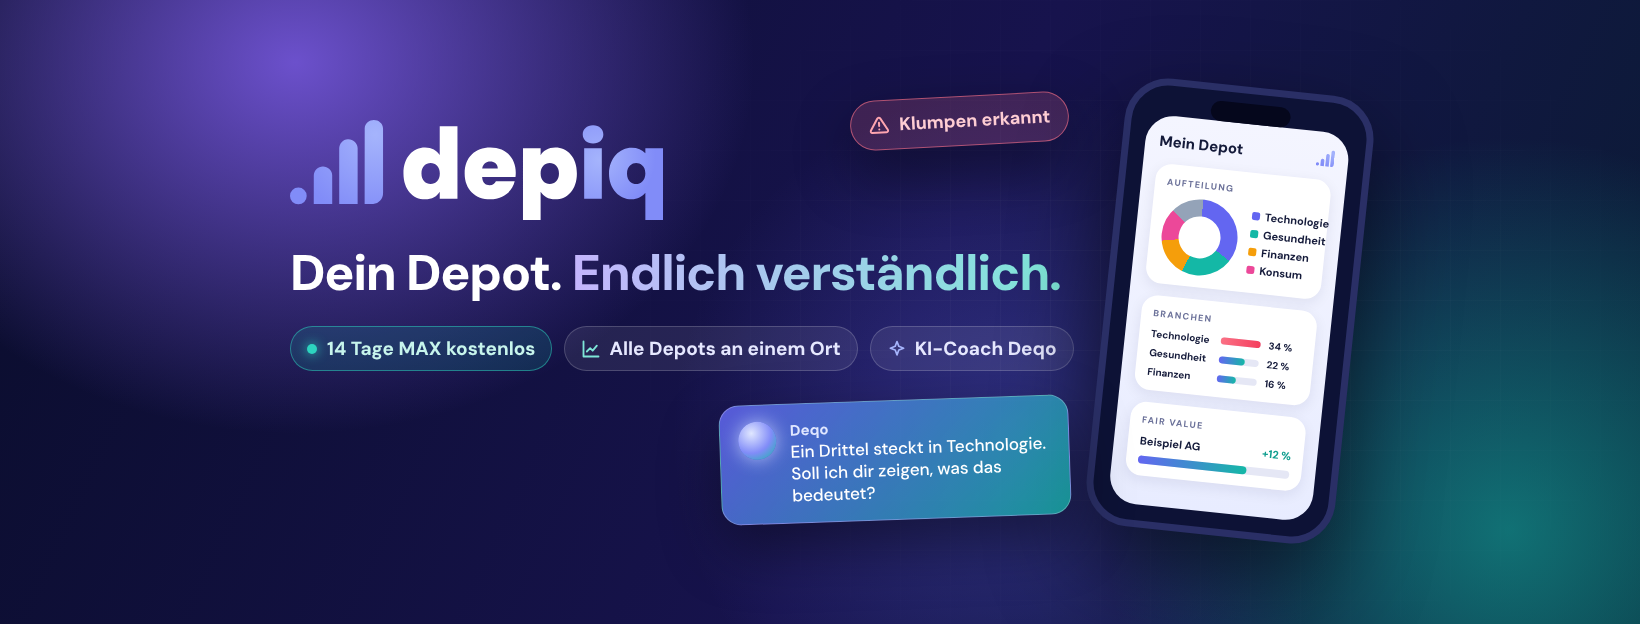
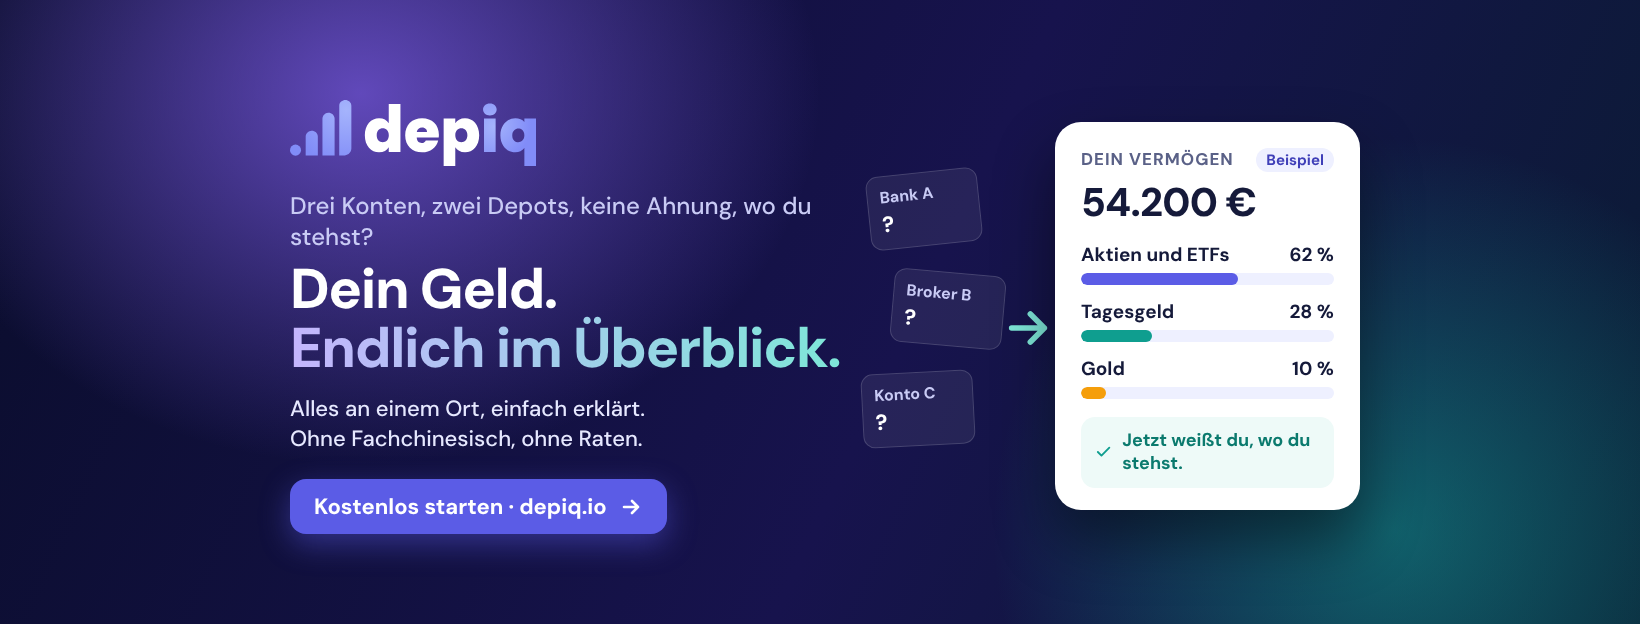
Facebook-Titelbild neu: Schmerz und Lösung, ohne Fachbegriffe
Claude-Session: https://claude.ai/code/session_01TCMRwfkoPUXt6cdHJjM9Lg

diff --git a/vorlage/fb-titelbild.html b/vorlage/fb-titelbild.html
@@ -1,73 +1,60 @@
 <!doctype html><html lang="de"><head><meta charset="utf-8">
-<!-- Facebook-Titelbild 1640 × 624, abgeleitet vom X-Titelbild. Mobil zeigt Facebook nur die Mitte (ca. 265–1375 px), deshalb alles Wichtige dort. Basis: X-Titelbild 1500 × 500 (Ausbau von Variante A). Profilbild liegt unten links ab ca. 330 px Höhe, 60–460 px breit:
-     Text steht deshalb oben links darüber, das Smartphone rechts, Hinweiskarten in der Mitte. -->
+<!-- Facebook-Titelbild 1640 × 624 (Fassung 02.11.2026). Mobil zeigt Facebook nur die Mitte (ca. 265–1375 px): alles Wichtige dort.
+     Inhalt nach Richtlinie: Schmerz → Lösung, keine Fachbegriffe, keine Funktionsliste. -->
 <style>
 @font-face{font-family:'DM Sans';font-weight:500;src:url(schrift/dm-sans-500.woff2)}
 @font-face{font-family:'DM Sans';font-weight:700;src:url(schrift/dm-sans-700.woff2)}
 @font-face{font-family:'DM Sans';font-weight:800;src:url(schrift/dm-sans-800.woff2)}
-@font-face{font-family:'JB';font-weight:700;src:url(schrift/jetbrains-mono-700.woff2)}
 *{box-sizing:border-box;margin:0}
 html,body{width:1640px;height:624px;overflow:hidden}
 body{font-family:'DM Sans',sans-serif;color:#fff;position:relative;background:#0a0d2c}
 em{font-style:normal;background:linear-gradient(90deg,#c4b5fd,#7ee7d8);-webkit-background-clip:text;color:transparent}
 .bg{position:absolute;inset:0;background:
- radial-gradient(ellipse 40% 85% at 18% 10%, rgba(124,92,230,.85), transparent 70%),
- radial-gradient(ellipse 30% 80% at 62% 70%, rgba(99,102,241,.35), transparent 70%),
- radial-gradient(ellipse 35% 90% at 92% 85%, rgba(20,184,166,.55), transparent 70%),
+ radial-gradient(ellipse 40% 85% at 22% 15%, rgba(124,92,230,.75), transparent 70%),
+ radial-gradient(ellipse 35% 90% at 85% 85%, rgba(20,184,166,.45), transparent 70%),
  linear-gradient(115deg,#0a0d2c,#17134d 55%,#0a1c33)}
-.raster{position:absolute;inset:0;background-image:linear-gradient(rgba(255,255,255,.035) 1px,transparent 1px),linear-gradient(90deg,rgba(255,255,255,.035) 1px,transparent 1px);background-size:50px 50px;mask-image:radial-gradient(ellipse 50% 90% at 70% 50%,#000,transparent 75%)}
-.links{position:absolute;left:90px;top:80px}
-.logo{height:132px;display:block}
-h1{font-size:88px;line-height:1.02;font-weight:800;letter-spacing:-.03em;margin:22px 0 28px;white-space:nowrap}
-.chips{display:flex;gap:12px}
-.chip{display:inline-flex;align-items:center;gap:8px;font-size:22px;font-weight:700;padding:9px 16px;border-radius:999px;background:rgba(255,255,255,.08);border:1.5px solid rgba(255,255,255,.18);color:#e6e8ff}
-.chip svg{width:20px;height:20px}
-.live{display:inline-flex;align-items:center;gap:10px;font-size:22px;font-weight:700;color:#c7f5ec;padding:9px 16px;border-radius:999px;background:rgba(20,184,166,.16);border:1.5px solid rgba(45,212,191,.5)}
-.live i{width:10px;height:10px;border-radius:50%;background:#2dd4bf;box-shadow:0 0 12px #2dd4bf}
-.handy{position:absolute;left:1080px;top:34px;width:250px;height:450px;border-radius:44px;background:#0d1236;border:7px solid #2a2f66;box-shadow:0 40px 90px rgba(0,0,0,.6);padding:30px 16px 16px;transform:rotate(6deg);zoom:1.18}
-.notch{position:absolute;top:10px;left:50%;transform:translateX(-50%);width:80px;height:20px;border-radius:20px;background:#05071c}
-.screen{height:100%;border-radius:28px;background:linear-gradient(180deg,#f4f5ff,#e8ecff);color:#141a3a;padding:16px 14px;display:flex;flex-direction:column;gap:12px}
-.screen .t{font-size:15px;font-weight:800;display:flex;justify-content:space-between;align-items:center}
-.screen .t img{height:18px}
-.kart{background:#fff;border-radius:16px;padding:12px;box-shadow:0 4px 14px rgba(20,26,58,.08)}
-.kart h4{font-size:9px;letter-spacing:.14em;color:#6b7199;margin-bottom:8px}
-.donutz{display:flex;gap:12px;align-items:center}
-.donut{flex:none;width:76px;height:76px;border-radius:50%;background:conic-gradient(#6366f1 0 34%,#14b8a6 34% 56%,#f59e0b 56% 72%,#ec4899 72% 86%,#94a3b8 86% 100%);position:relative}
-.donut:after{content:"";position:absolute;inset:17px;border-radius:50%;background:#fff}
-.leg{white-space:nowrap;font-size:11px;font-weight:700;display:flex;flex-direction:column;gap:4px}
-.leg span:before{content:"";display:inline-block;width:8px;height:8px;border-radius:2px;margin-right:5px;background:var(--c)}
-.fv div{font-size:11px;font-weight:700;display:flex;justify-content:space-between}
-.fv .bar{height:8px;border-radius:9px;background:#e5e7f5;margin-top:8px}.fv .bar b{display:block;width:72%;height:100%;border-radius:9px;background:linear-gradient(90deg,#6366f1,#14b8a6)}
-.zeile{display:grid;grid-template-columns:62px 1fr 34px;gap:8px;align-items:center;font-size:10px;font-weight:700;margin-top:6px}
-.zeile .s{height:7px;border-radius:9px;background:#e5e7f5}.zeile .s b{display:block;height:100%;border-radius:9px;background:linear-gradient(90deg,#6366f1,#14b8a6)}
-.zeile .s b.rot{background:linear-gradient(90deg,#fb7185,#f43f5e)}
-.schwebe{position:absolute;z-index:5;border-radius:20px;box-shadow:0 24px 60px rgba(0,0,0,.45)}
-.warn{left:960px;top:70px;padding:12px 18px;font-size:18px;font-weight:700;display:flex;gap:10px;align-items:center;background:rgba(251,113,133,.18);border:1.5px solid rgba(251,113,133,.6);color:#fecdd3;border-radius:999px;transform:rotate(-3deg)}
-.deqo{left:900px;top:395px;width:350px;padding:16px 18px;display:flex;gap:14px;align-items:flex-start;background:linear-gradient(135deg,rgba(99,102,241,.85),rgba(20,184,166,.75));border:1.5px solid rgba(255,255,255,.25);transform:rotate(-2deg)}
-.orb{flex:none;width:38px;height:38px;border-radius:50%;background:radial-gradient(circle at 35% 30%,#e0e7ff,#818cf8 55%,#14b8a6);box-shadow:0 0 18px rgba(199,210,254,.8)}
-.deqo b{display:block;font-size:15px;color:#e0e7ff}
-.deqo span{font-size:17px;font-weight:500;line-height:1.3}
-</style></head><body>
-<div class="bg"></div><div class="raster"></div>
-<svg width="0" height="0" style="position:absolute"><defs>
- <symbol id="i-depot" viewBox="0 0 24 24"><path d="M3 3v18h18M7 15l4-4 3 3 5-6" fill="none" stroke="#7ee7d8" stroke-width="2.2" stroke-linecap="round" stroke-linejoin="round"/></symbol>
- <symbol id="i-deqo" viewBox="0 0 24 24"><path d="M12 3l2.2 5.8L20 11l-5.8 2.2L12 19l-2.2-5.8L4 11l5.8-2.2z" fill="none" stroke="#a5b4fc" stroke-width="2" stroke-linejoin="round"/></symbol>
-</defs></svg>
+.links{position:absolute;left:290px;top:100px;width:560px}
+.logo{height:66px;display:block}
+.schmerz{margin-top:24px;font-size:24px;font-weight:500;color:#c9cbf5}
+h1{font-size:56px;line-height:1.05;font-weight:800;letter-spacing:-.025em;margin-top:8px}
+.unter{margin-top:16px;font-size:22px;line-height:1.4;color:#e6e8ff}
+.knopf{margin-top:24px;display:inline-flex;align-items:center;gap:12px;font-size:22px;font-weight:700;padding:13px 24px;border-radius:16px;background:#5b5ce6;box-shadow:0 10px 30px rgba(91,92,230,.45)}
+/* rechts: vorher → nachher */
+.vorher{position:absolute;left:975px;top:120px;width:150px}
+.zettel{position:absolute;width:112px;padding:10px 12px;border-radius:12px;background:rgba(255,255,255,.07);border:1.5px solid rgba(255,255,255,.15);font-size:16px;font-weight:700;color:#c9cbf5}
+.zettel b{display:block;font-size:22px;color:#fff;margin-top:2px}
+.frage{position:absolute;left:1005px;top:405px;font-size:76px;font-weight:800;color:rgba(255,255,255,.22)}
+.pfeil{position:absolute;left:1000px;top:300px}
+.karte{position:absolute;left:1055px;top:122px;width:305px;padding:26px 26px 22px;border-radius:26px;background:#fff;color:#151a3a;box-shadow:0 30px 60px rgba(0,0,0,.45)}
+.karte .k{font-size:17px;font-weight:700;color:#5a6187;letter-spacing:.06em;text-transform:uppercase}
+.karte .z{font-size:40px;font-weight:800;letter-spacing:-.02em;margin-top:4px}
+.zeile{margin-top:14px}
+.zeile .t{display:flex;justify-content:space-between;font-size:19px;font-weight:700}
+.balken{height:12px;border-radius:999px;background:#eef0ff;margin-top:6px;overflow:hidden}
+.balken i{display:block;height:100%;border-radius:999px}
+.ruhe{display:flex;align-items:center;gap:10px;margin-top:18px;padding:12px 14px;border-radius:14px;background:#eefaf8;color:#0b7a6e;font-size:18px;font-weight:700;line-height:1.3}
+</style></head><body><div class="bg"></div>
+
 <div class="links">
- <img class="logo" src="logo-dark.svg" alt="">
- <h1>Dein Depot.<br><em>Endlich verständlich.</em></h1>
- <div class="chips"><span class="live"><i></i>14 Tage MAX kostenlos</span><span class="chip"><svg><use href="#i-depot"/></svg>Alle Depots an einem Ort</span></div>
+ <img class="logo" src="logo-dark.svg" alt="depiq">
+ <div class="schmerz">Drei Konten, zwei Depots, keine Ahnung, wo du stehst?</div>
+ <h1>Dein Geld.<br><em>Endlich im Überblick.</em></h1>
+ <div class="unter">Alles an einem Ort, einfach erklärt.<br>Ohne Fachchinesisch, ohne Raten.</div>
+ <div class="knopf">Kostenlos starten · depiq.io
+  <svg width="24" height="24" viewBox="0 0 24 24" fill="none" stroke="#fff" stroke-width="2.6" stroke-linecap="round" stroke-linejoin="round"><path d="M5 12h14M13 6l6 6-6 6"/></svg></div>
 </div>
-<div class="schwebe warn"><svg width="20" height="20" viewBox="0 0 24 24" fill="none" stroke="#fda4af" stroke-width="2.4" stroke-linecap="round" stroke-linejoin="round"><path d="M12 9v4M12 17h.01M10.3 3.9 1.8 18a2 2 0 0 0 1.7 3h17a2 2 0 0 0 1.7-3L13.7 3.9a2 2 0 0 0-3.4 0z"/></svg>Klumpen erkannt</div>
-<div class="schwebe deqo"><div class="orb"></div><div><b>Deqo</b><span>Ein Drittel steckt in Technologie. Soll ich dir zeigen, was das bedeutet?</span></div></div>
-<div class="handy"><div class="notch"></div><div class="screen">
- <div class="t">Mein Depot<img src="icon-dunkel.svg" alt=""></div>
- <div class="kart"><h4>AUFTEILUNG</h4><div class="donutz"><div class="donut"></div><div class="leg"><span style="--c:#6366f1">Technologie</span><span style="--c:#14b8a6">Gesundheit</span><span style="--c:#f59e0b">Finanzen</span><span style="--c:#ec4899">Konsum</span></div></div></div>
- <div class="kart"><h4>BRANCHEN</h4>
-  <div class="zeile"><span>Technologie</span><div class="s"><b class="rot" style="width:100%"></b></div><span>34 %</span></div>
-  <div class="zeile"><span>Gesundheit</span><div class="s"><b style="width:64%"></b></div><span>22 %</span></div>
-  <div class="zeile"><span>Finanzen</span><div class="s"><b style="width:47%"></b></div><span>16 %</span></div>
- </div>
- <div class="kart fv"><h4>FAIR VALUE</h4><div><span>Beispiel AG</span><span style="color:#0f9e8f">+12 %</span></div><div class="bar"><b></b></div></div>
-</div></div>
+
+<div class="zettel" style="left:868px;top:172px;transform:rotate(-6deg)">Bank A<b>?</b></div>
+<div class="zettel" style="left:892px;top:272px;transform:rotate(5deg)">Broker B<b>?</b></div>
+<div class="zettel" style="left:862px;top:372px;transform:rotate(-3deg)">Konto C<b>?</b></div>
+<svg class="pfeil" width="56" height="56" viewBox="0 0 24 24" fill="none" stroke="#7ee7d8" stroke-width="2.4" stroke-linecap="round" stroke-linejoin="round"><path d="M5 12h14M13 6l6 6-6 6"/></svg>
+
+<div class="karte">
+ <div class="k" style="display:flex;justify-content:space-between">Dein Vermögen<span style="letter-spacing:0;text-transform:none;font-size:15px;background:#eef0ff;color:#3f3fb8;padding:2px 10px;border-radius:999px">Beispiel</span></div>
+ <div class="z">54.200 €</div>
+ <div class="zeile"><div class="t"><span>Aktien und ETFs</span><span>62 %</span></div><div class="balken"><i style="width:62%;background:#5b5ce6"></i></div></div>
+ <div class="zeile"><div class="t"><span>Tagesgeld</span><span>28 %</span></div><div class="balken"><i style="width:28%;background:#0f9e8f"></i></div></div>
+ <div class="zeile"><div class="t"><span>Gold</span><span>10 %</span></div><div class="balken"><i style="width:10%;background:#f59e0b"></i></div></div>
+ <div class="ruhe"><svg width="22" height="22" viewBox="0 0 24 24" fill="none" stroke="#0f9e8f" stroke-width="2.6" stroke-linecap="round" stroke-linejoin="round"><path d="M20 6L9 17l-5-5"/></svg>Jetzt weißt du, wo du stehst.</div>
+</div>
 </body></html>

diff --git a/vorlage/fb-titelbild-alt-2026-11-01.html b/vorlage/fb-titelbild-alt-2026-11-01.html
@@ -1,0 +1,73 @@
+<!doctype html><html lang="de"><head><meta charset="utf-8">
+<!-- Facebook-Titelbild 1640 × 624, abgeleitet vom X-Titelbild. Mobil zeigt Facebook nur die Mitte (ca. 265–1375 px), deshalb alles Wichtige dort. Basis: X-Titelbild 1500 × 500 (Ausbau von Variante A). Profilbild liegt unten links ab ca. 330 px Höhe, 60–460 px breit:
+     Text steht deshalb oben links darüber, das Smartphone rechts, Hinweiskarten in der Mitte. -->
+<style>
+@font-face{font-family:'DM Sans';font-weight:500;src:url(schrift/dm-sans-500.woff2)}
+@font-face{font-family:'DM Sans';font-weight:700;src:url(schrift/dm-sans-700.woff2)}
+@font-face{font-family:'DM Sans';font-weight:800;src:url(schrift/dm-sans-800.woff2)}
+@font-face{font-family:'JB';font-weight:700;src:url(schrift/jetbrains-mono-700.woff2)}
+*{box-sizing:border-box;margin:0}
+html,body{width:1640px;height:624px;overflow:hidden}
+body{font-family:'DM Sans',sans-serif;color:#fff;position:relative;background:#0a0d2c}
+em{font-style:normal;background:linear-gradient(90deg,#c4b5fd,#7ee7d8);-webkit-background-clip:text;color:transparent}
+.bg{position:absolute;inset:0;background:
+ radial-gradient(ellipse 40% 85% at 18% 10%, rgba(124,92,230,.85), transparent 70%),
+ radial-gradient(ellipse 30% 80% at 62% 70%, rgba(99,102,241,.35), transparent 70%),
+ radial-gradient(ellipse 35% 90% at 92% 85%, rgba(20,184,166,.55), transparent 70%),
+ linear-gradient(115deg,#0a0d2c,#17134d 55%,#0a1c33)}
+.raster{position:absolute;inset:0;background-image:linear-gradient(rgba(255,255,255,.035) 1px,transparent 1px),linear-gradient(90deg,rgba(255,255,255,.035) 1px,transparent 1px);background-size:50px 50px;mask-image:radial-gradient(ellipse 50% 90% at 70% 50%,#000,transparent 75%)}
+.links{position:absolute;left:90px;top:80px}
+.logo{height:132px;display:block}
+h1{font-size:88px;line-height:1.02;font-weight:800;letter-spacing:-.03em;margin:22px 0 28px;white-space:nowrap}
+.chips{display:flex;gap:12px}
+.chip{display:inline-flex;align-items:center;gap:8px;font-size:22px;font-weight:700;padding:9px 16px;border-radius:999px;background:rgba(255,255,255,.08);border:1.5px solid rgba(255,255,255,.18);color:#e6e8ff}
+.chip svg{width:20px;height:20px}
+.live{display:inline-flex;align-items:center;gap:10px;font-size:22px;font-weight:700;color:#c7f5ec;padding:9px 16px;border-radius:999px;background:rgba(20,184,166,.16);border:1.5px solid rgba(45,212,191,.5)}
+.live i{width:10px;height:10px;border-radius:50%;background:#2dd4bf;box-shadow:0 0 12px #2dd4bf}
+.handy{position:absolute;left:1080px;top:34px;width:250px;height:450px;border-radius:44px;background:#0d1236;border:7px solid #2a2f66;box-shadow:0 40px 90px rgba(0,0,0,.6);padding:30px 16px 16px;transform:rotate(6deg);zoom:1.18}
+.notch{position:absolute;top:10px;left:50%;transform:translateX(-50%);width:80px;height:20px;border-radius:20px;background:#05071c}
+.screen{height:100%;border-radius:28px;background:linear-gradient(180deg,#f4f5ff,#e8ecff);color:#141a3a;padding:16px 14px;display:flex;flex-direction:column;gap:12px}
+.screen .t{font-size:15px;font-weight:800;display:flex;justify-content:space-between;align-items:center}
+.screen .t img{height:18px}
+.kart{background:#fff;border-radius:16px;padding:12px;box-shadow:0 4px 14px rgba(20,26,58,.08)}
+.kart h4{font-size:9px;letter-spacing:.14em;color:#6b7199;margin-bottom:8px}
+.donutz{display:flex;gap:12px;align-items:center}
+.donut{flex:none;width:76px;height:76px;border-radius:50%;background:conic-gradient(#6366f1 0 34%,#14b8a6 34% 56%,#f59e0b 56% 72%,#ec4899 72% 86%,#94a3b8 86% 100%);position:relative}
+.donut:after{content:"";position:absolute;inset:17px;border-radius:50%;background:#fff}
+.leg{white-space:nowrap;font-size:11px;font-weight:700;display:flex;flex-direction:column;gap:4px}
+.leg span:before{content:"";display:inline-block;width:8px;height:8px;border-radius:2px;margin-right:5px;background:var(--c)}
+.fv div{font-size:11px;font-weight:700;display:flex;justify-content:space-between}
+.fv .bar{height:8px;border-radius:9px;background:#e5e7f5;margin-top:8px}.fv .bar b{display:block;width:72%;height:100%;border-radius:9px;background:linear-gradient(90deg,#6366f1,#14b8a6)}
+.zeile{display:grid;grid-template-columns:62px 1fr 34px;gap:8px;align-items:center;font-size:10px;font-weight:700;margin-top:6px}
+.zeile .s{height:7px;border-radius:9px;background:#e5e7f5}.zeile .s b{display:block;height:100%;border-radius:9px;background:linear-gradient(90deg,#6366f1,#14b8a6)}
+.zeile .s b.rot{background:linear-gradient(90deg,#fb7185,#f43f5e)}
+.schwebe{position:absolute;z-index:5;border-radius:20px;box-shadow:0 24px 60px rgba(0,0,0,.45)}
+.warn{left:960px;top:70px;padding:12px 18px;font-size:18px;font-weight:700;display:flex;gap:10px;align-items:center;background:rgba(251,113,133,.18);border:1.5px solid rgba(251,113,133,.6);color:#fecdd3;border-radius:999px;transform:rotate(-3deg)}
+.deqo{left:900px;top:395px;width:350px;padding:16px 18px;display:flex;gap:14px;align-items:flex-start;background:linear-gradient(135deg,rgba(99,102,241,.85),rgba(20,184,166,.75));border:1.5px solid rgba(255,255,255,.25);transform:rotate(-2deg)}
+.orb{flex:none;width:38px;height:38px;border-radius:50%;background:radial-gradient(circle at 35% 30%,#e0e7ff,#818cf8 55%,#14b8a6);box-shadow:0 0 18px rgba(199,210,254,.8)}
+.deqo b{display:block;font-size:15px;color:#e0e7ff}
+.deqo span{font-size:17px;font-weight:500;line-height:1.3}
+</style></head><body>
+<div class="bg"></div><div class="raster"></div>
+<svg width="0" height="0" style="position:absolute"><defs>
+ <symbol id="i-depot" viewBox="0 0 24 24"><path d="M3 3v18h18M7 15l4-4 3 3 5-6" fill="none" stroke="#7ee7d8" stroke-width="2.2" stroke-linecap="round" stroke-linejoin="round"/></symbol>
+ <symbol id="i-deqo" viewBox="0 0 24 24"><path d="M12 3l2.2 5.8L20 11l-5.8 2.2L12 19l-2.2-5.8L4 11l5.8-2.2z" fill="none" stroke="#a5b4fc" stroke-width="2" stroke-linejoin="round"/></symbol>
+</defs></svg>
+<div class="links">
+ <img class="logo" src="logo-dark.svg" alt="">
+ <h1>Dein Depot.<br><em>Endlich verständlich.</em></h1>
+ <div class="chips"><span class="live"><i></i>14 Tage MAX kostenlos</span><span class="chip"><svg><use href="#i-depot"/></svg>Alle Depots an einem Ort</span></div>
+</div>
+<div class="schwebe warn"><svg width="20" height="20" viewBox="0 0 24 24" fill="none" stroke="#fda4af" stroke-width="2.4" stroke-linecap="round" stroke-linejoin="round"><path d="M12 9v4M12 17h.01M10.3 3.9 1.8 18a2 2 0 0 0 1.7 3h17a2 2 0 0 0 1.7-3L13.7 3.9a2 2 0 0 0-3.4 0z"/></svg>Klumpen erkannt</div>
+<div class="schwebe deqo"><div class="orb"></div><div><b>Deqo</b><span>Ein Drittel steckt in Technologie. Soll ich dir zeigen, was das bedeutet?</span></div></div>
+<div class="handy"><div class="notch"></div><div class="screen">
+ <div class="t">Mein Depot<img src="icon-dunkel.svg" alt=""></div>
+ <div class="kart"><h4>AUFTEILUNG</h4><div class="donutz"><div class="donut"></div><div class="leg"><span style="--c:#6366f1">Technologie</span><span style="--c:#14b8a6">Gesundheit</span><span style="--c:#f59e0b">Finanzen</span><span style="--c:#ec4899">Konsum</span></div></div></div>
+ <div class="kart"><h4>BRANCHEN</h4>
+  <div class="zeile"><span>Technologie</span><div class="s"><b class="rot" style="width:100%"></b></div><span>34 %</span></div>
+  <div class="zeile"><span>Gesundheit</span><div class="s"><b style="width:64%"></b></div><span>22 %</span></div>
+  <div class="zeile"><span>Finanzen</span><div class="s"><b style="width:47%"></b></div><span>16 %</span></div>
+ </div>
+ <div class="kart fv"><h4>FAIR VALUE</h4><div><span>Beispiel AG</span><span style="color:#0f9e8f">+12 %</span></div><div class="bar"><b></b></div></div>
+</div></div>
+</body></html>
